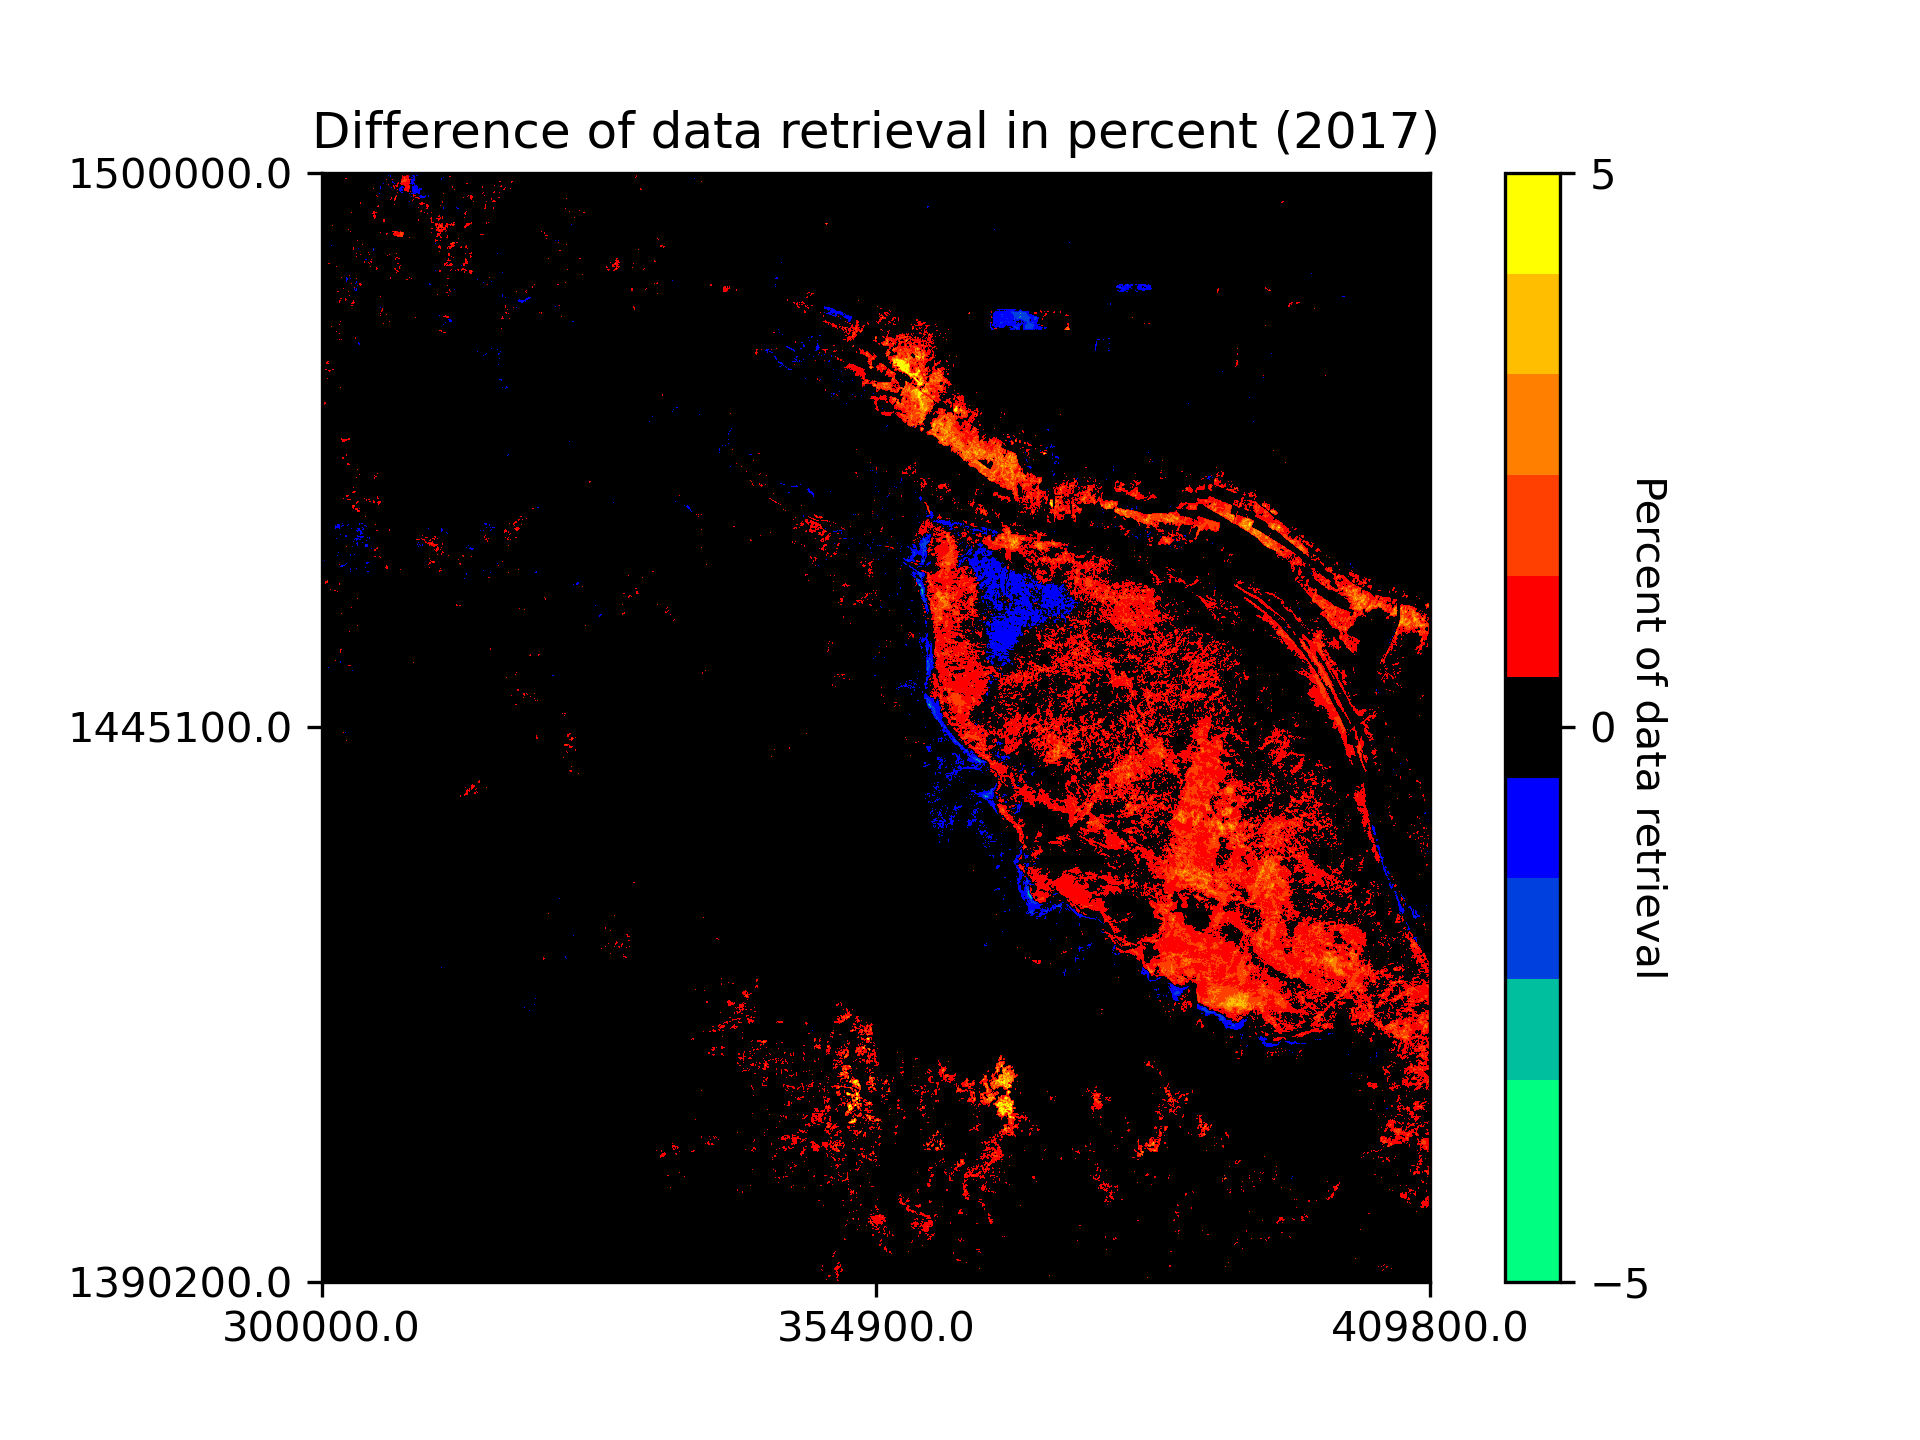
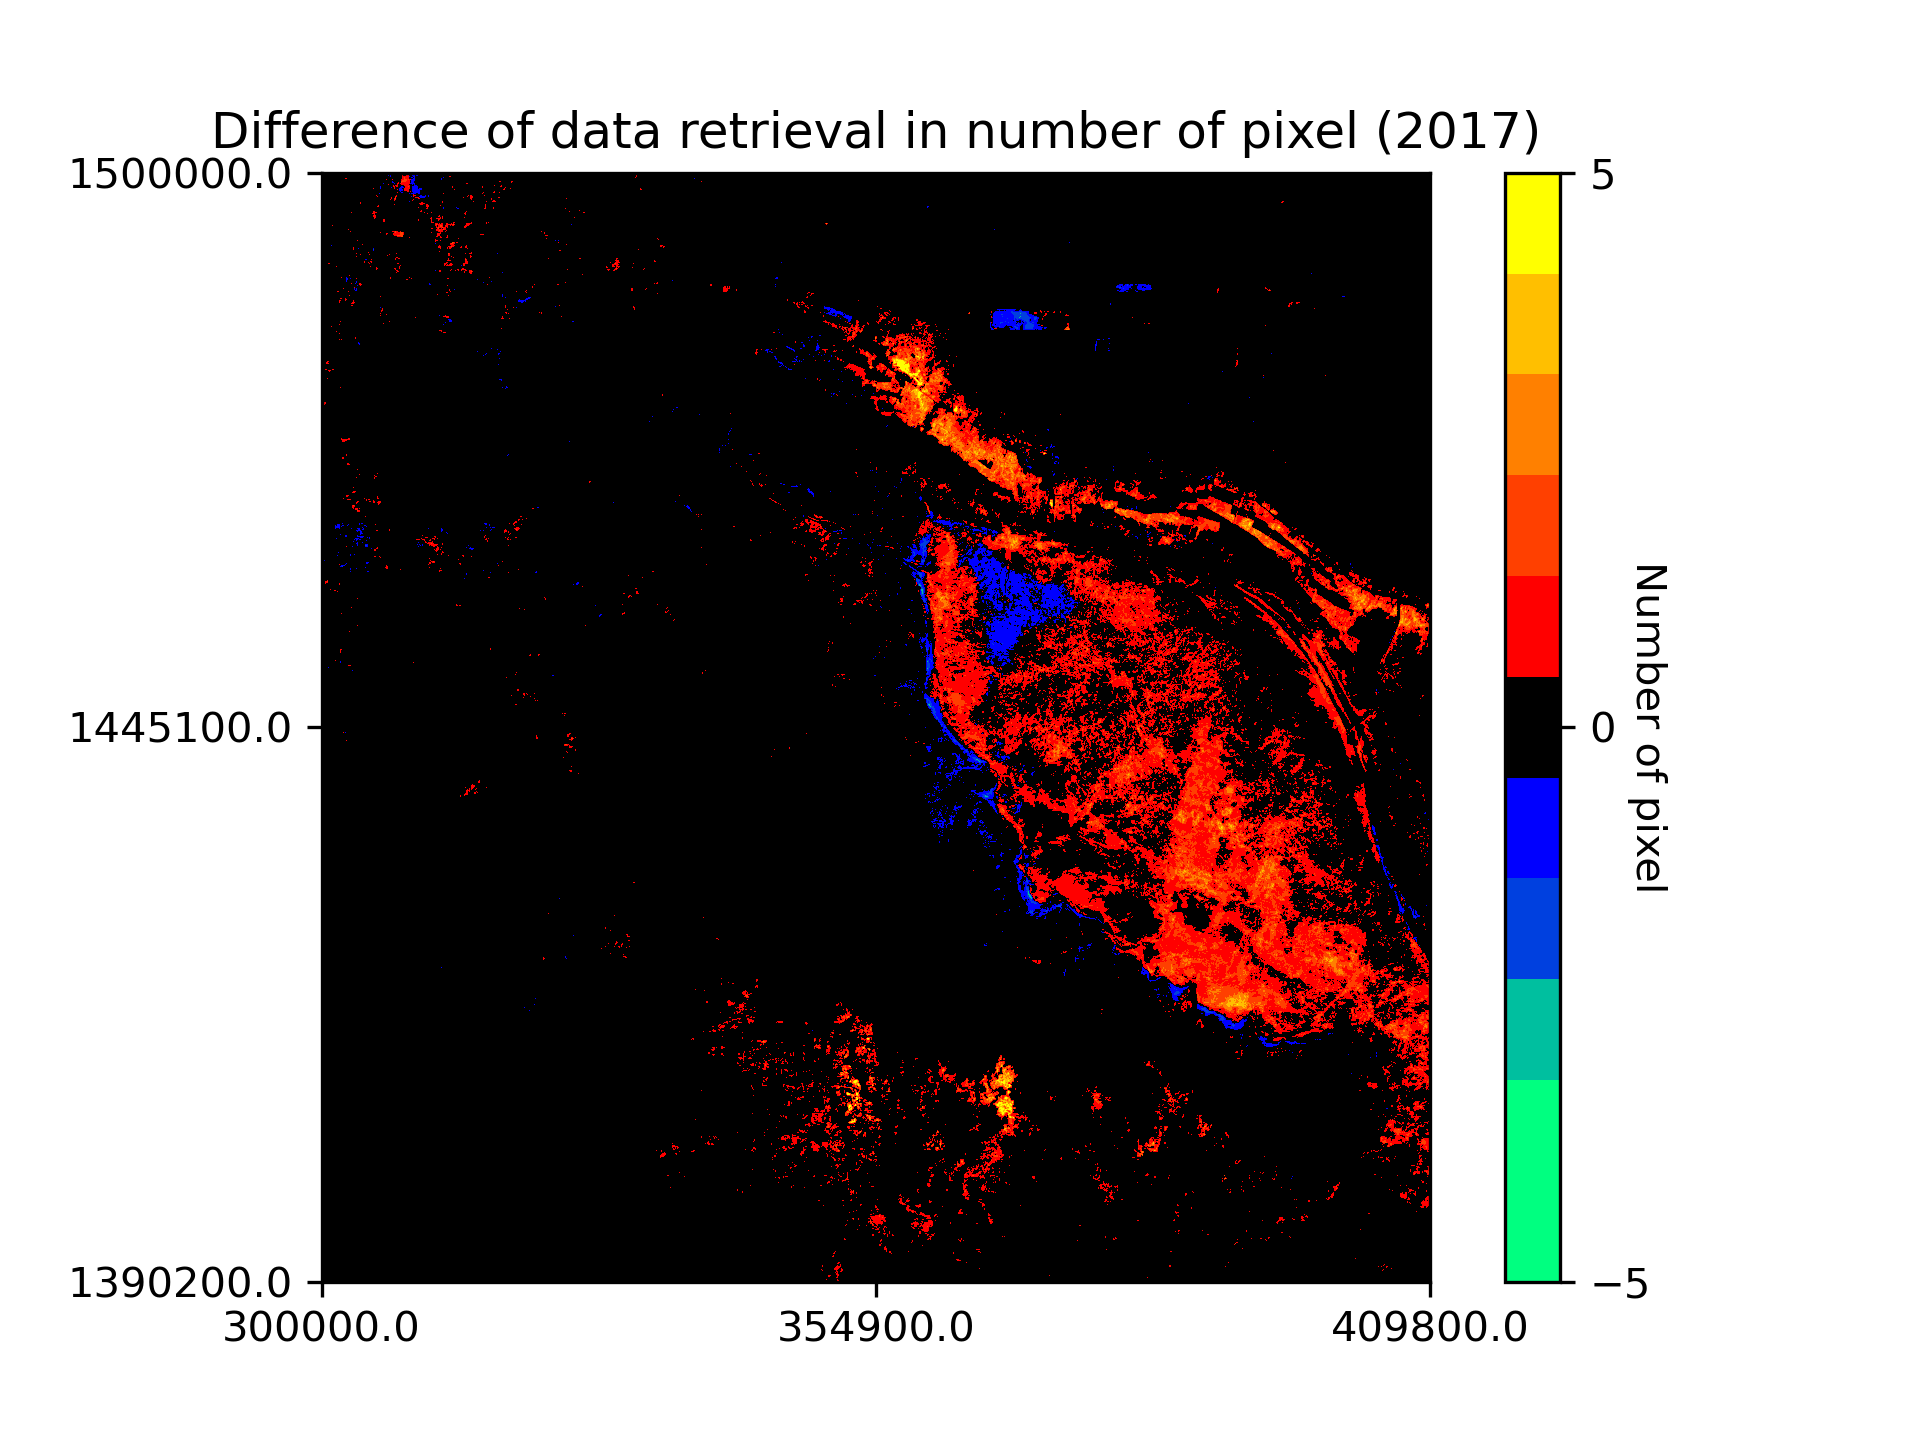
test_Wipe

Changed region(s): [[0.125, 0.0625, 0.8125, 0.125], [0.8438, 0.3438, 0.875, 0.6875]]

diff --git a/3_CA/WiPE_before_or_after/Main.py b/3_CA/WiPE_before_or_after/Main.py
@@ -1,0 +1,93 @@
+# -*- coding: utf-8 -*-
+"""
+Created on Thu Apr 09 09:00:04 2024
+@author: Julien Masson
+"""
+import re
+import numpy as np
+import xarray as xr
+import rioxarray
+import matplotlib.pyplot as plt
+import pyproj
+import retrieve_filename
+import rasterio
+from rasterio.enums import Resampling
+#import geopandas as gpd
+#import geodatasets
+# import pandas as pd
+# dico={'latitude':'y','longitude':'x'}
+# ds=ds.rename(dico)
+# ds=ds.set_coords('x')
+# ds=ds.set_coords('y')
+# ds=ds.rio.write_crs("EPSG:4326")
+def zerooone(x):
+    '''Return 1 if x>0 else 0'''
+    if x>0:
+        r=1
+    else:
+        r=0
+    return r
+
+# Definition des vars  ===========================
+P = pyproj.Proj(proj='utm', zone=48, ellps='WGS84', preserve_units=True)
+LOCAL_PROJ=32648
+PATH = "/mnt/d/TEST/"
+PATH_WIPE = '/mnt/d/TEST/Test_WiPE/2017/NEW/'
+TILE = 'T48PUV'
+KEEP = 'Rw443'
+
+# Ouvrir le fichier .nc  ===========================
+#xds = rxr.open_rasterio(path,masked=True)
+list_img = retrieve_filename.POLYMER(TILE,PATH)
+list_WiPE = retrieve_filename.WiPE(TILE,PATH_WIPE)
+DROP = ['bitmask','Rnir','Rgli','logchl','bbs','Rw443','Rw490','Rw560'
+      ,'Rw665','Rw705','Rw740','Rw783','Rw842','Rw865','Rw1610','logfb']
+DROP.remove(KEEP)
+
+ITER = 1
+for image in list_img:
+    with xr.open_dataset(image,decode_coords="all",drop_variables=DROP) as ds: #Open POLYMER img
+        AA = P(ds.longitude.data,ds.latitude.data) # Reproject to UTM
+        da = xr.DataArray(
+            data = np.vectorize(zerooone)(ds[KEEP].data),
+            dims = ["x","y"],
+            coords = dict(
+                    x = (["x"], np.unique(np.round(AA[0]))),
+                    y = (["y"], np.unique(np.round(AA[1])))
+            )
+        )
+    del ds
+    match=re.findall(r'\d+',image)
+    wipe_var=next((s for s in list_WiPE if match[3] in s),None)
+    try :
+        with rasterio.open(wipe_var) as dw: # Open WiPE img and resample it to 20m resolution
+            WData = dw.read(
+                    out_shape=(
+                        dw.count,
+                        int(dw.height * 0.5),
+                        int(dw.width * 0.5)
+                    ),
+                    resampling=Resampling.bilinear
+                )
+    except ImportError:
+        print("There's no WiPE Mask for a specific POLYMER Data. Is everything processed?")
+    WData=WData[0].astype(int) #Convert np.uint8 (0 to 255) to np.int64 in order to sum it
+    if ITER==1:
+        resultp=da
+        resultw=WData
+        difference=WData-da
+    else:
+        resultp=resultp+da
+        resultw=resultw+WData
+        difference=difference+(WData-da)
+    ITER=ITER+1
+#open corresponding WiPE
+#Reinterpolation de WiPE
+#Comparaison pixel
+
+
+# plots?  ===========================
+fig, ax = plt.subplots()
+
+heatmap=ax.imshow(resultp,cmap='ocean',vmin=0)
+cbar=plt.colorbar(heatmap)

diff --git a/2_WiPE/WiPE/Test_WiPE/WiPE_First_Stats/Main.py b/2_WiPE/WiPE/Test_WiPE/WiPE_First_Stats/Main.py
@@ -3,25 +3,23 @@
 Created on Thu Mar 28 09:45:04 2024
 @author: Julien Masson
 """
-
 import os
 import re
-import rioxarray as rxr
-import pandas as pd
-import numpy
-from osgeo import gdal, ogr
-os.chdir('/mnt/c/Travail/Script/Script_thesis/WiPE/Test_WiPE/WiPE_First_Stats')
-from retrieve_filename import retrieve_filename
 import numpy
 import matplotlib.pyplot as plt
 from matplotlib.colors import ListedColormap
 from matplotlib import cm
 import matplotlib.ticker as ticker
+import rioxarray as rxr
+from osgeo import gdal
+os.chdir('/mnt/c/Travail/Script/Script_thesis/2_WiPE/WiPE/Test_WiPE/WiPE_First_Stats')
+from retrieve_filename import retrieve_filename
+
 #=======================
-Path_new='/mnt/c/Travail/TEST/Test_WiPE/2017/NEW/'
-Path_old='/mnt/c/Travail/TEST/Test_WiPE/2017/OLD/'
+PATH_N='/mnt/d/TEST/Test_WiPE/2017/NEW/'
+PATH_O='/mnt/d/TEST/Test_WiPE/2017/OLD/'
 #========================
-puv_old,pvv_old,puv_new,pvv_new=retrieve_filename(Path_old,Path_new)
+puv_old,pvv_old,puv_new,pvv_new=retrieve_filename(PATH_O,PATH_N)
 
 a=0
 for i in puv_new:
@@ -32,14 +30,14 @@ for i in puv_new:
         ys, xs = data.shape
         ulx, xres, _, uly, _, yres = ds.GetGeoTransform()
         extent = [ulx, ulx+xres*xs, uly, uly+yres*ys] # Generate X and Y limits of the image
-        ds = None
+        del ds
     else:
         ds = gdal.Open(i)
         data_1 = ds.ReadAsArray()
         data_1=data_1.astype('int')
-        ds = None
+        del ds
         data=numpy.add(data,data_1)
-        data_1=None
+        del data_1
 
     #Find the old WiPE mask matching the date of the new one
     match=re.findall(r'\d+',i)
@@ -49,14 +47,14 @@ for i in puv_new:
         ds = gdal.Open(old_o)
         data_o = ds.ReadAsArray()
         data_o=data_o.astype('int')
-        ds = None
+        del ds
     else:
         ds = gdal.Open(old_o)
         data_o1 = ds.ReadAsArray()
         data_o1=data_o1.astype('int')
-        ds = None
+        del ds
         data_o=numpy.add(data_o,data_o1)
-        data_o1=None
+        del data_o1
     a=a+1
 
 extent=list(map(int, extent))
@@ -171,11 +169,11 @@ newcmp = ListedColormap(newcolors)
 
 fig, ax = plt.subplots()
 heatmap=ax.imshow(difference,cmap=newcmp,vmin=-Percent,vmax=Percent)
-plt.title('Difference of data retrieval in percent (2017)')
+plt.title('Difference of data retrieval in number of pixel (2017)')
 #==Colorbar
 cbar=plt.colorbar(heatmap)
 cbar.ax.set_yticks([-Percent,0,Percent])
-cbar.set_label('Percent of data retrieval', rotation=270)
+cbar.set_label('Number of pixel', rotation=270)
 
 #==Ticks (X,Y)
 start, end = ax.get_xlim()

diff --git a/3_CA/WiPE_before_or_after/retrieve_filename.py b/3_CA/WiPE_before_or_after/retrieve_filename.py
@@ -1,0 +1,11 @@
+"""Module containing all commands that output a list of files to process"""
+import glob
+def POLYMER(tile,path):
+    """Return all Polymer files contained in path"""
+    allpath=glob.glob(path+'L1C_'+tile+'*polymer20m.nc')
+    return allpath
+
+def WiPE(tile,path):
+    """Return all WiPE files contained in path"""
+    allpath=glob.glob(path+'S2*_'+tile+'*_water.TIF')
+    return allpath
